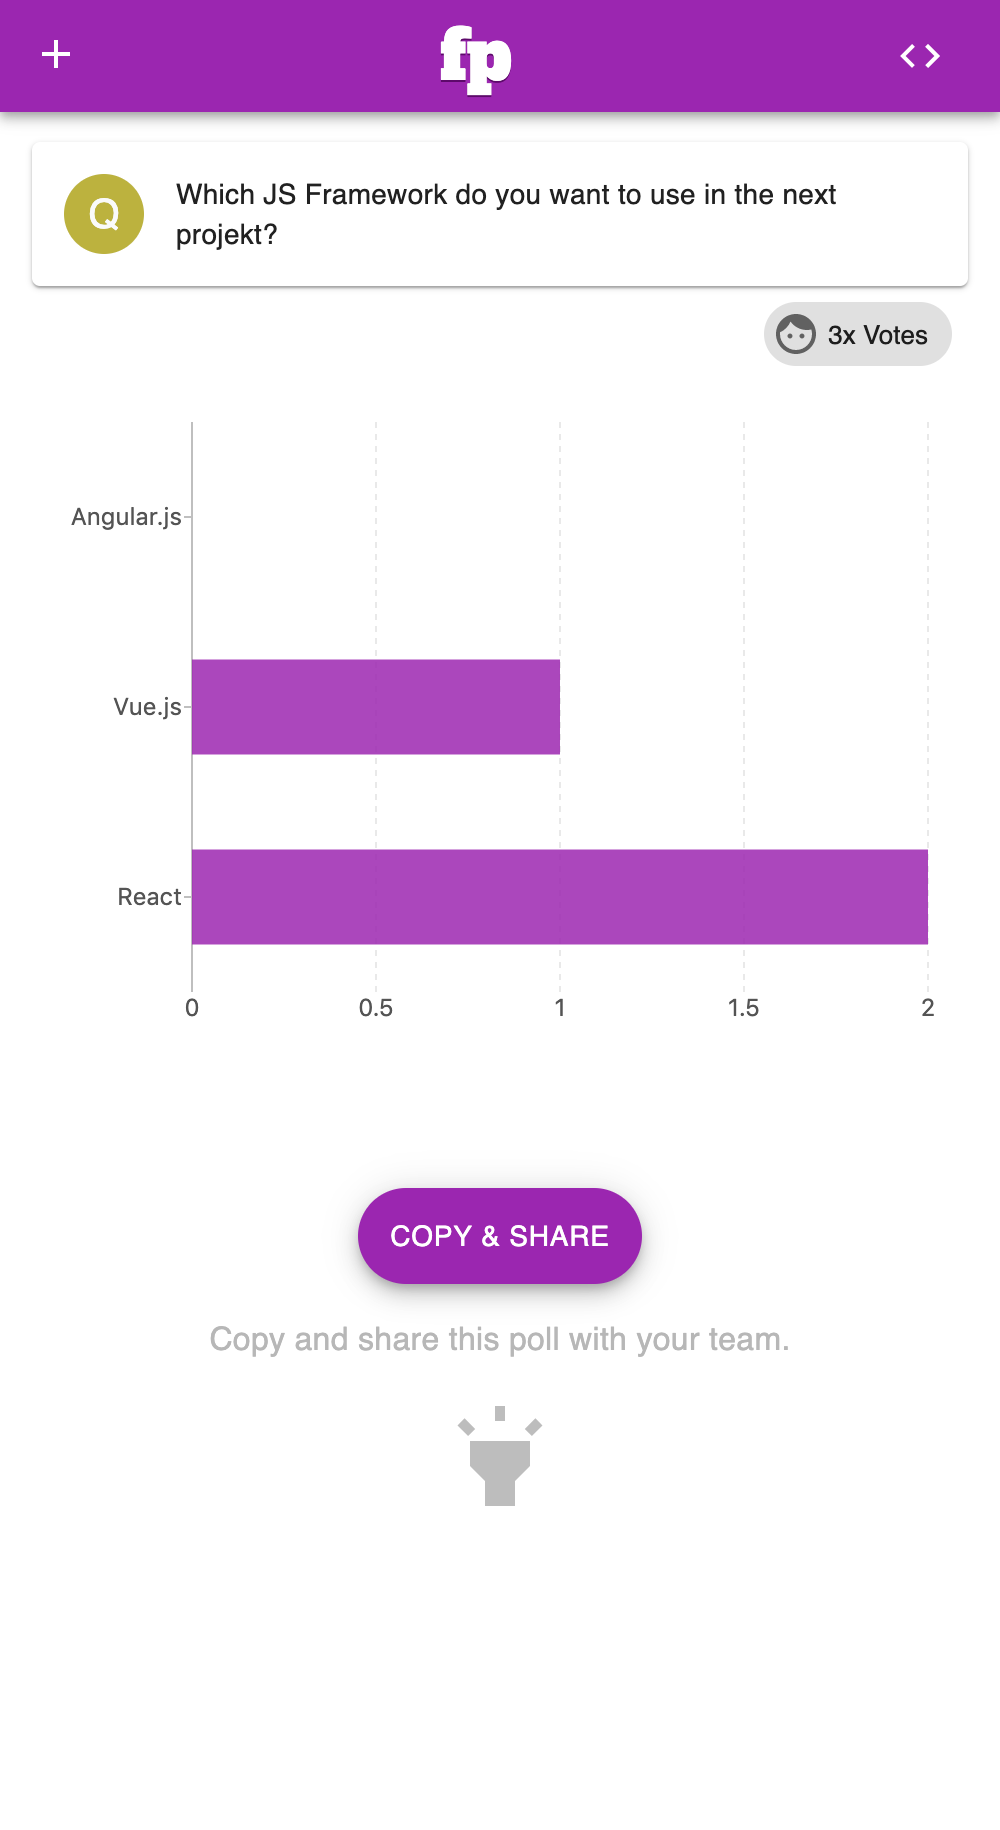
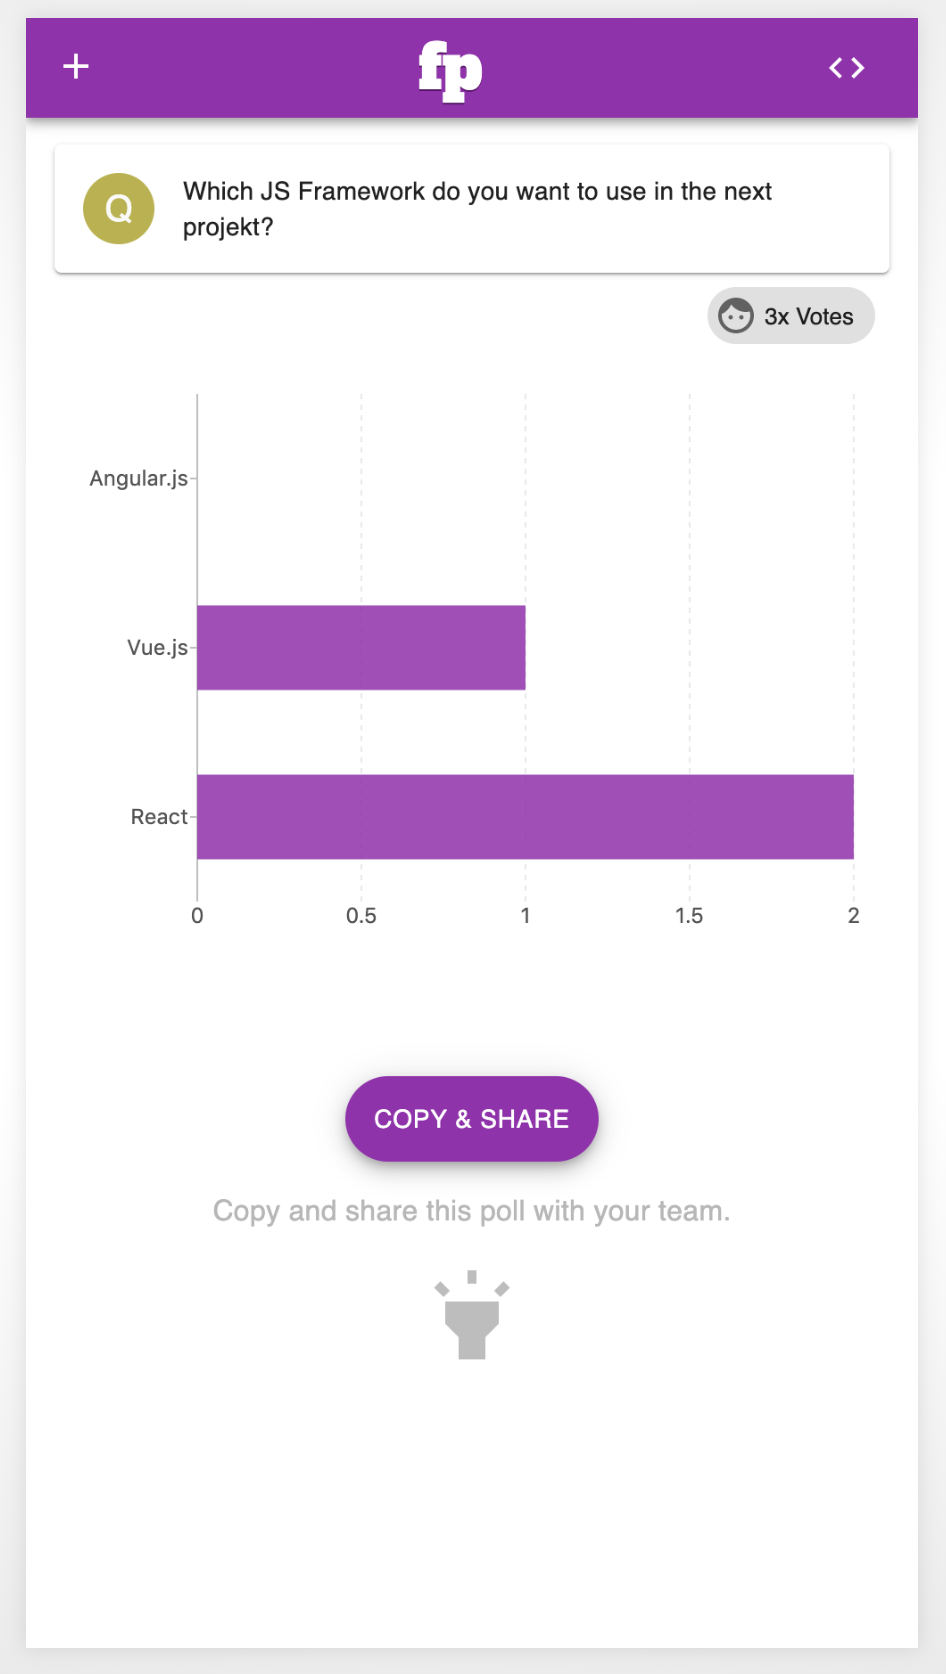
add screenshot

diff --git a/README.md b/README.md
@@ -1,7 +1,7 @@
 # FirePoll
 A realtime voting app with react.js + redux + firebase
 
-![screenshot](./screenshot.png)
+<img src="./screenshot.png" width="300" />
 
 (🔥,✔)
 ## Anforderung
